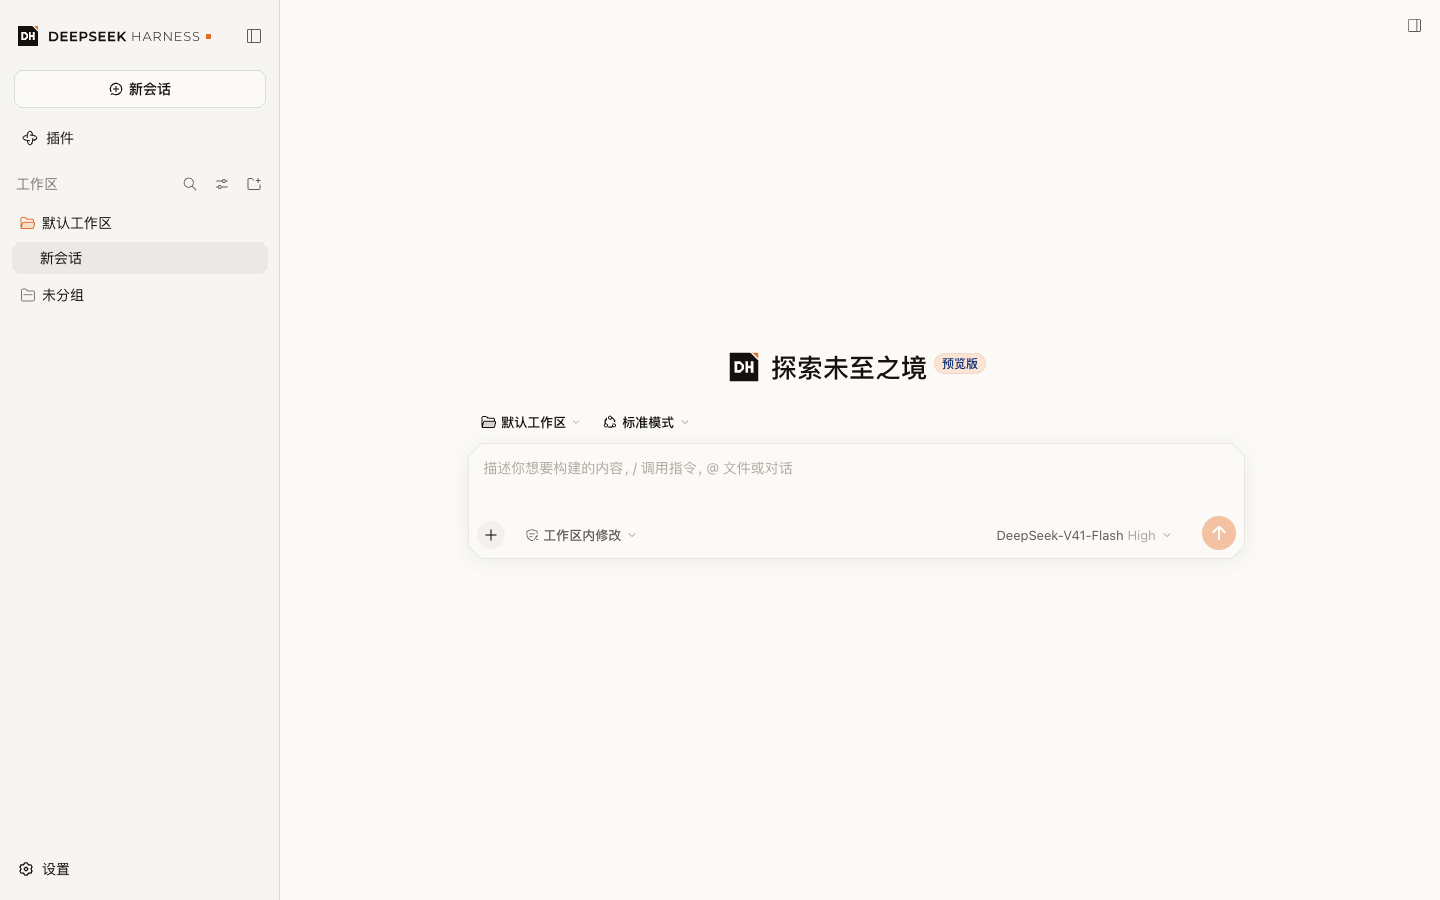
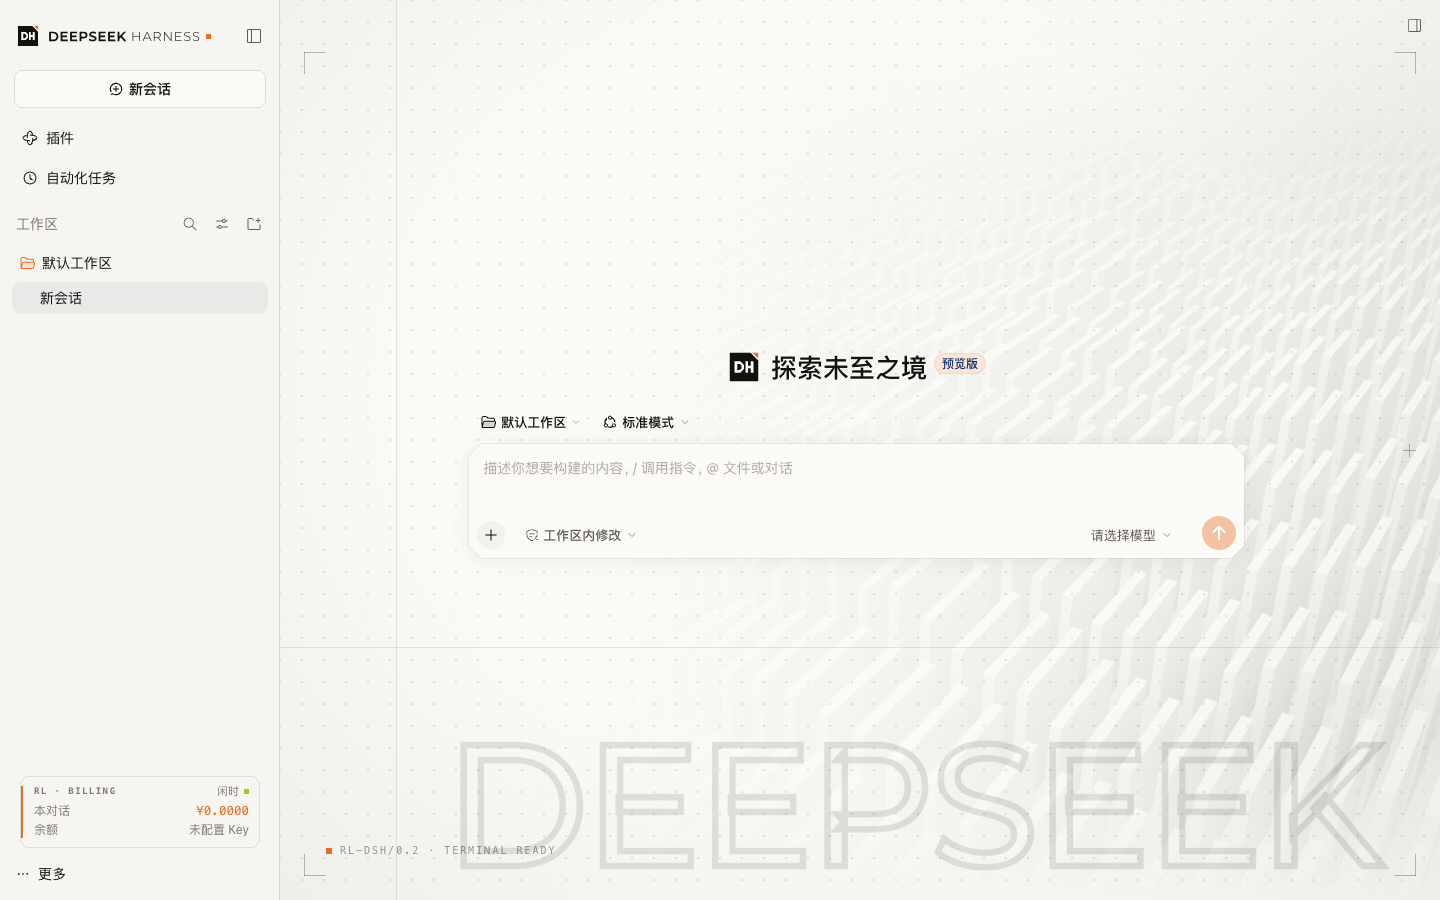
docs: refresh main screen screenshots

diff --git a/README.md b/README.md
@@ -29,7 +29,7 @@ DeepSeek Harness 的莱茵生命风格主题，包括开屏动画、界面配色
 | 开屏动画 | ![浅色开屏动画](screenshots/splash-light.png) | ![深色开屏动画](screenshots/splash-dark.png) |
 | 主界面 | ![浅色主界面](screenshots/home-light.png) | ![深色主界面](screenshots/home-dark.png) |
 
-开屏动画截图来自本仓库的预览页面。主界面截图来自 DeepSeek Harness 网页版 0.2.0-rc.2，拍摄于 v0.2.0，不含之后加入的空白页背景、推理强度滑块和计费卡片。
+开屏动画截图来自本仓库的预览页面。主界面截图来自 DeepSeek Harness 网页版 0.2.1-rc.2 的全新配置（未登录、未配置 API Key），空白页背景为「完整开屏底」。由于没有可用的模型，截图中不显示推理强度滑块。
 
 ## 环境要求
 

diff --git a/CHANGELOG.md b/CHANGELOG.md
@@ -4,6 +4,10 @@
 
 ## [未发布]
 
+### 变更
+
+- README 更新主界面截图。
+
 ## [0.2.2] - 2026-10-19
 
 新增空白页背景与切回动效。适用于 DeepSeek Harness 桌面版和网页版 0.2.1-rc.2。
